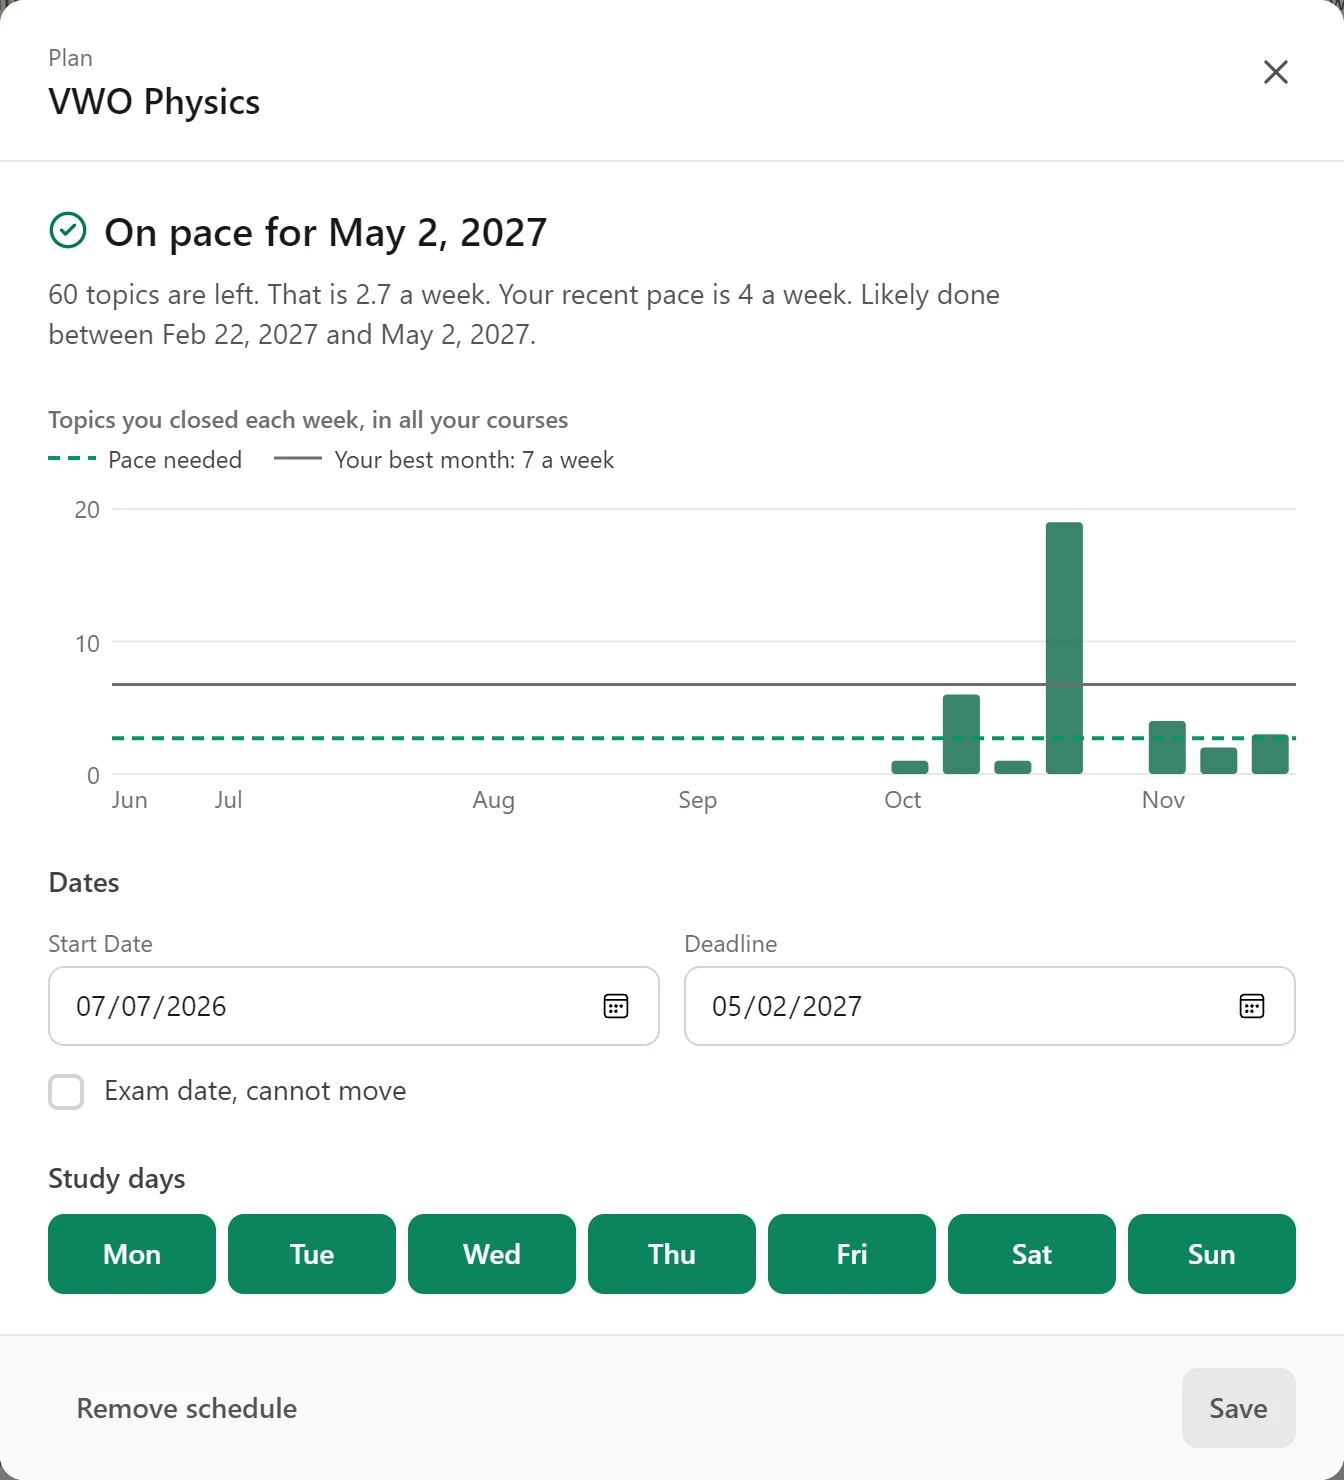
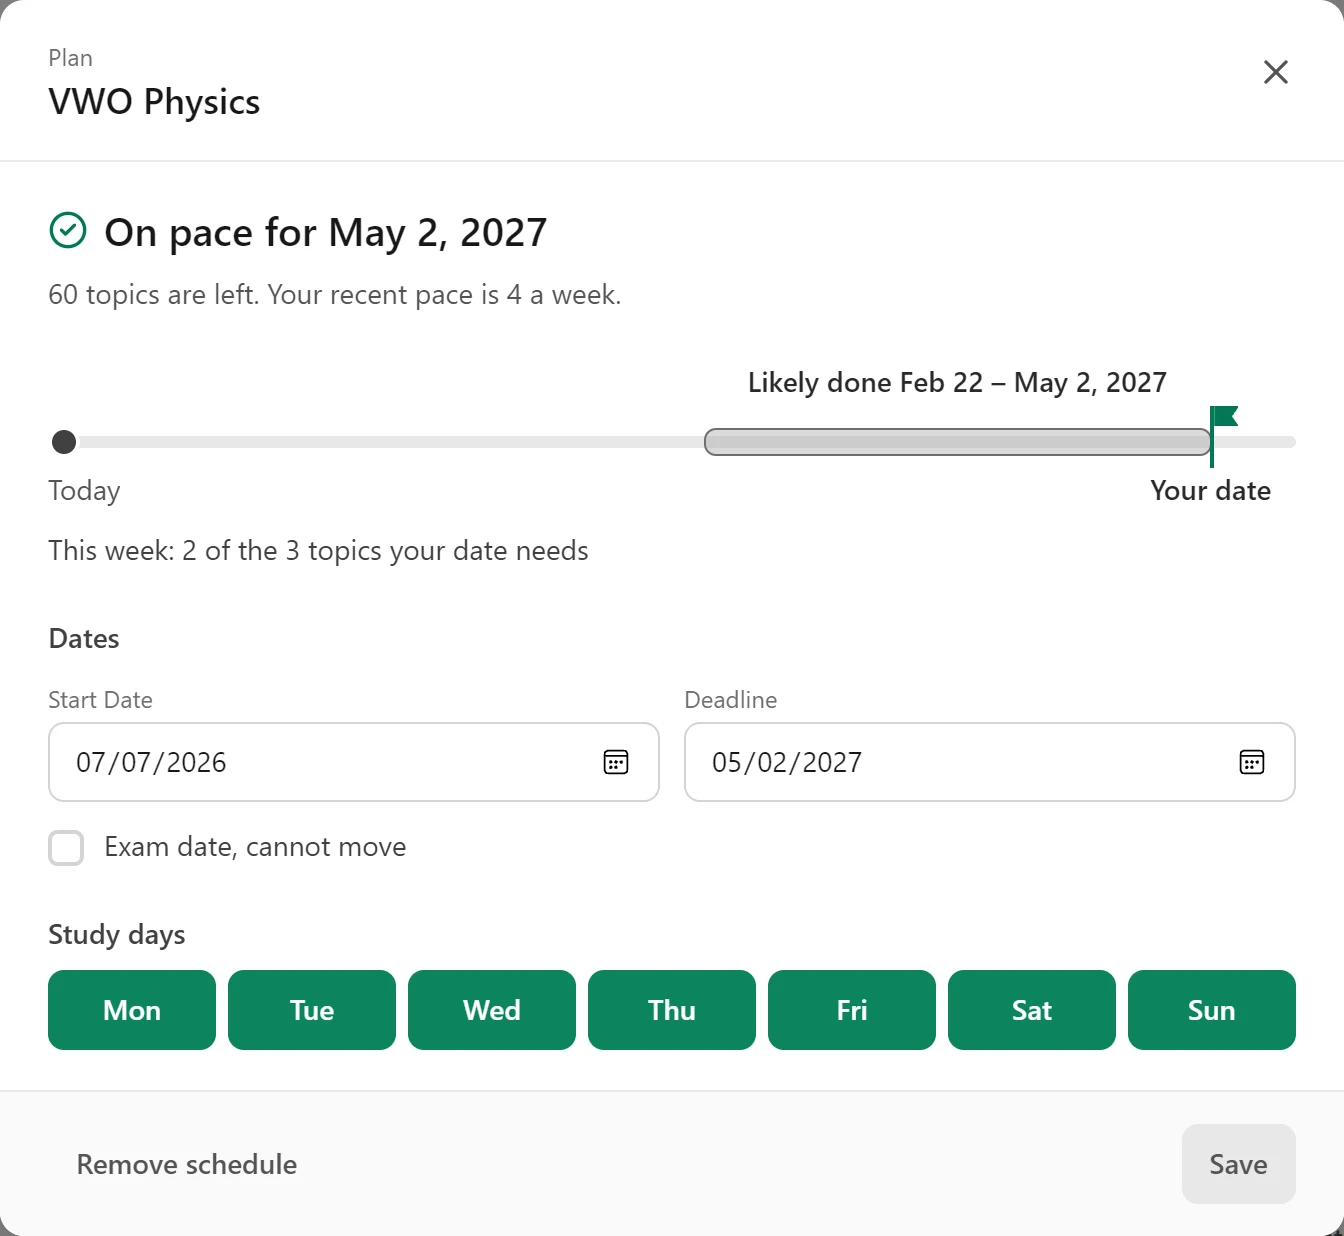
Re-shoot plan.webp; close the empty lane
With no label above the track the strip takes that lane back, so it
no longer leaves a gap under the panel's sentences. plan.webp shows
the new strip.

diff --git a/src/components/plan/PlanStrip.tsx b/src/components/plan/PlanStrip.tsx
@@ -76,6 +76,9 @@ function Strip({ facts, band }: { facts: StripFacts; band: PaceVerdict['band'] }
         ...(range ? [{ id: 'range' as const, x: (xOf(range.fromDay) + xOf(range.toDay)) / 2, w: widths.range, start: false, lanes: ['above', 'below', 'under'] as StripLane[] }] : []),
     ], width, Math.round(0.5 * rem)) : {};
     const deep = Object.values(placed).some(p => p?.lane === 'under');
+    // No label above the track (no range, or each label fitted below): the
+    // empty lane is taken back, so the strip does not hang a gap under the text.
+    const lift = width > 0 && widths.today > 0 && !Object.values(placed).some(p => p?.lane === 'above');
     const labelStyle = (id: StripLabel) => {
         const p = placed[id];
         // A label never runs past the strip: only one wider than it is cut,
@@ -86,7 +89,7 @@ function Strip({ facts, band }: { facts: StripFacts; band: PaceVerdict['band'] }
     const label = 'absolute truncate text-sm leading-5';
 
     return (
-        <div ref={box} role="img" aria-label={facts.sentence} dir="ltr" className="relative" style={{ height: deep ? '6rem' : '4.75rem' }}>
+        <div ref={box} role="img" aria-label={facts.sentence} dir="ltr" className="relative" style={{ height: deep ? '6rem' : '4.75rem', marginTop: lift ? '-1.25rem' : undefined }}>
             {width > 0 && (
                 <>
                     {/* The track from today on. */}
